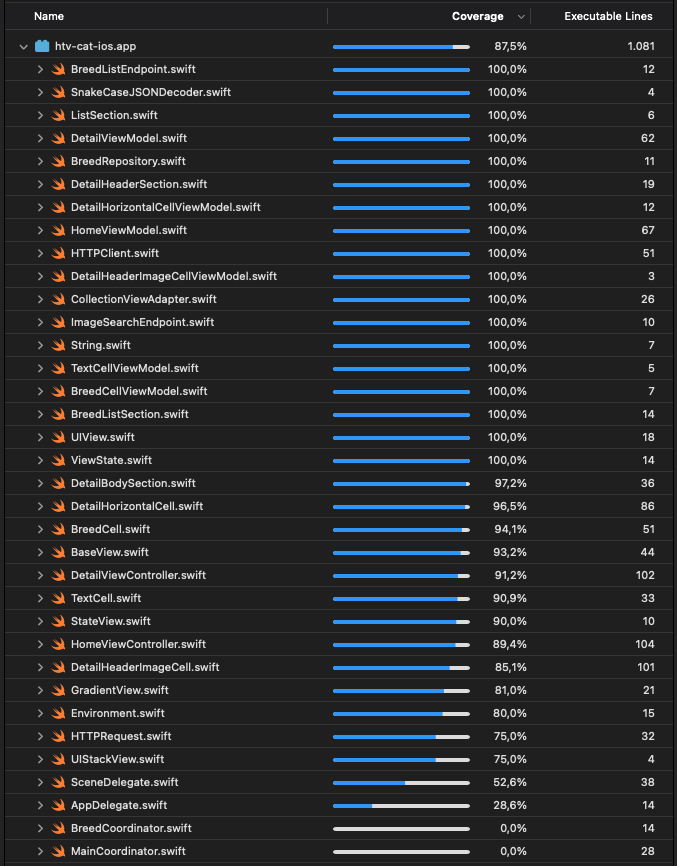
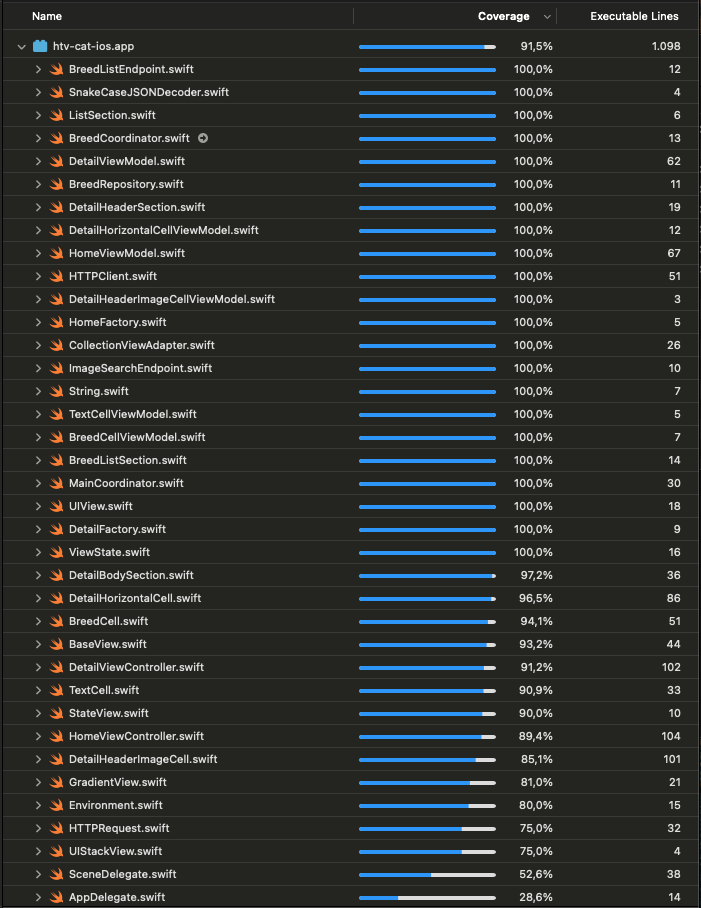
Update readme

Changed region(s): [[0.0, 0.0, 1.0, 1.0], [0.8375, 0.0, 0.9616, 0.0624]]

diff --git a/README.md b/README.md
@@ -29,6 +29,6 @@ The snapshot tests were recorded with iPhone 14 Pro Max simulator. Use it to run
 
 ### Code Coverage
 
-The project has code coverage of 87.5%.
+The project has a code coverage of 91.5%.
 
 ![](readme_files/code_coverage.png)
